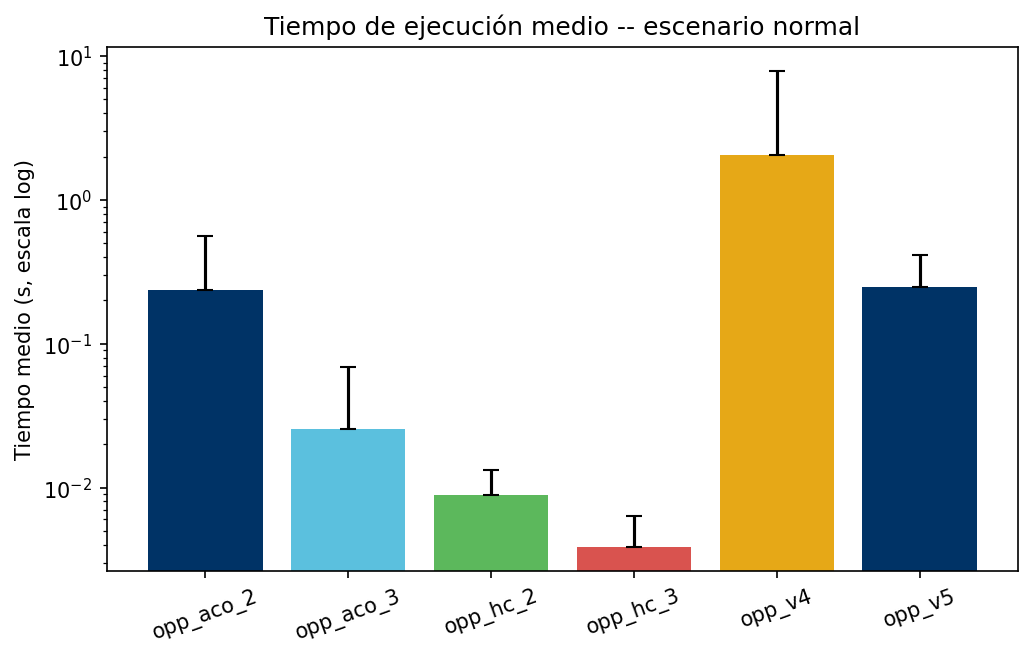
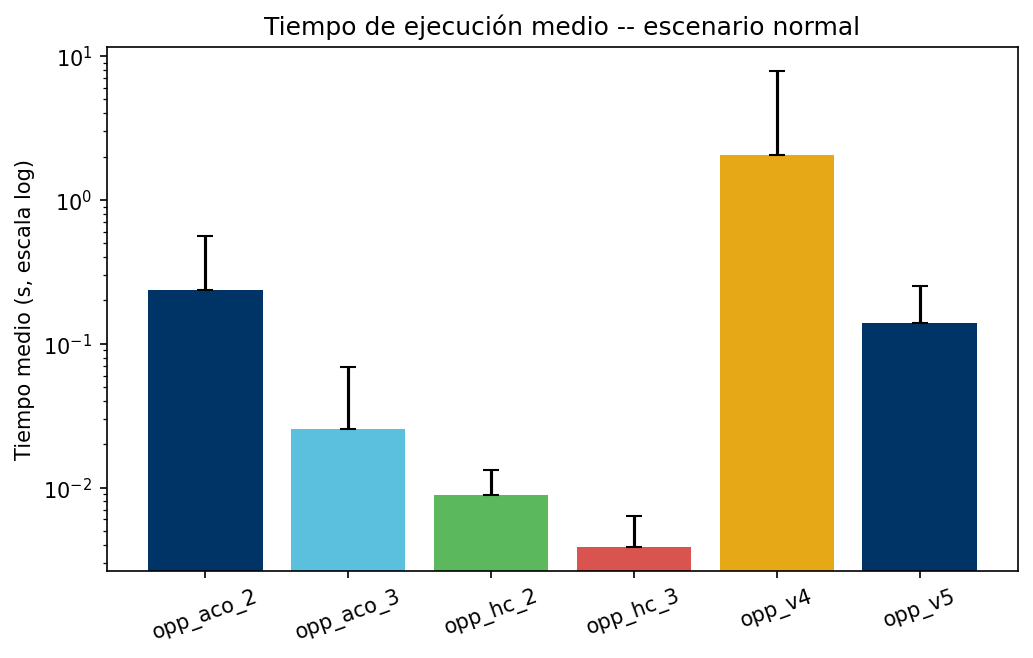
run analysis

Changed region(s): [[0.8364, 0.4255, 0.9603, 0.5167]]

diff --git a/docs/algorithm_advances_31_08_2026.tex b/docs/algorithm_advances_31_08_2026.tex
@@ -367,6 +367,15 @@ que la descomposición en dos etapas no pierde optimalidad frente a la
 formulación monolítica, en el régimen evaluado hasta ahora. Se agregaron tests que validan específicamente sus dos
 capacidades nuevas.
 
+Su batería de estrés, ahora completa (8 instancias), da 0\% de éxito
+(7 timeouts y 1 falla real). Por lo tanto, no es competitivo a esa escala frente al
+12.5\% de \type{opp\_v4}, así que se mantiene fuera de las comparaciones
+de escalabilidad. La falla real (no por timeout) reveló un segundo punto
+a revisar: en al menos una instancia grande,
+la Etapa 1 reporta una ruta óptima con muchos más arcos activos de los
+necesarios y ninguno llega al nodo final, pese a que el propio solver la
+marca como óptima.
+
 \stopsubsection
 
 \stopsection

diff --git a/analysis/output/report.md b/analysis/output/report.md
@@ -14,8 +14,8 @@
 | opp_hc_3 | stress | 20 | 17 | 3 | 0 | 85.0 |
 | opp_v4 | normal | 46 | 45 | 1 | 0 | 97.8 |
 | opp_v4 | stress | 8 | 1 | 7 | 0 | 12.5 |
-| opp_v5 | normal | 28 | 28 | 0 | 0 | 100.0 |
-| opp_v5 | stress | 3 | 0 | 3 | 0 | 0.0 |
+| opp_v5 | normal | 53 | 52 | 1 | 0 | 98.1 |
+| opp_v5 | stress | 8 | 0 | 7 | 1 | 0.0 |
 
 ## 2. Tiempo de ejecución (solo casos OK)
 
@@ -31,7 +31,7 @@
 | opp_hc_3 | stress | 0.563104419147267 | 0.4753807938995693 | 1.4223179817199707 | 17 |
 | opp_v4 | normal | 2.048522546556261 | 5.831397336622343 | 26.211292028427124 | 45 |
 | opp_v4 | stress | 0.1135659217834472 | nan | 0.1135659217834472 | 1 |
-| opp_v5 | normal | 0.2469221098082406 | 0.16591122132280145 | 0.8291668891906738 | 28 |
+| opp_v5 | normal | 0.1387551335188058 | 0.11210032746258411 | 0.6508488655090332 | 52 |
 
 ## 3. Profiling del modelo exacto (opp_v4)
 
@@ -46,7 +46,7 @@
 | --- | --- | --- | --- | --- | --- | --- |
 | opp_aco_2 | normal | 71.22773178522324 | 0.0 | 199.87217644021445 | 472.0 | 9 |
 | opp_hc_2 | normal | 242.2202579436687 | 0.0 | 533.1439832436334 | 1180.0 | 9 |
-| opp_v5 | normal | -1.1986821013415147e-13 | 0.0 | 3.2175209873347113e-12 | 5.234012857736582e-12 | 19 |
+| opp_v5 | normal | -0.2555403797941615 | 0.0 | 1.4227886198343525 | 7.735572291461509e-11 | 31 |
 
 ## 5. Congestión (opp_hc_3 / opp_aco_3 vs. sus baselines v2)
 
@@ -86,7 +86,7 @@
 | opp_hc_2 | 0.6999 | 0.6658 | 0.3984 | 0.5963 | 0.2339 | -0.173 | 78 |
 | opp_hc_3 | 0.6944 | 0.1095 | 0.2999 | 0.8049 | 0.4237 | -0.2316 | 20 |
 | opp_v4 | 0.7511 | 0.4413 | 0.915 | -0.0171 | 0.4447 | -0.3873 | 23 |
-| opp_v5 | 0.7871 | 0.4704 | 0.9045 | -0.0459 | 0.4477 | -0.4292 | 22 |
+| opp_v5 | 0.8731 | 0.5342 | 0.9383 | -0.0028 | 0.5305 | -0.4691 | 22 |
 
 ### 6.2 Nivel escenario
 
@@ -101,7 +101,7 @@
 | opp_hc_3 | normal | 0.9629 | 0.9629 | nan | 0.9629 | nan | -0.9629 | 3 |
 | opp_hc_3 | stress | 0.6492 | -0.0672 | 0.1571 | 0.7561 | nan | nan | 17 |
 | opp_v4 | normal | 0.843 | 0.485 | 0.918 | -0.0078 | 0.4891 | -0.4207 | 22 |
-| opp_v5 | normal | 0.7871 | 0.4704 | 0.9045 | -0.0459 | 0.4477 | -0.4292 | 22 |
+| opp_v5 | normal | 0.8731 | 0.5342 | 0.9383 | -0.0028 | 0.5305 | -0.4691 | 22 |
 
 ## Gráficos generados
 
